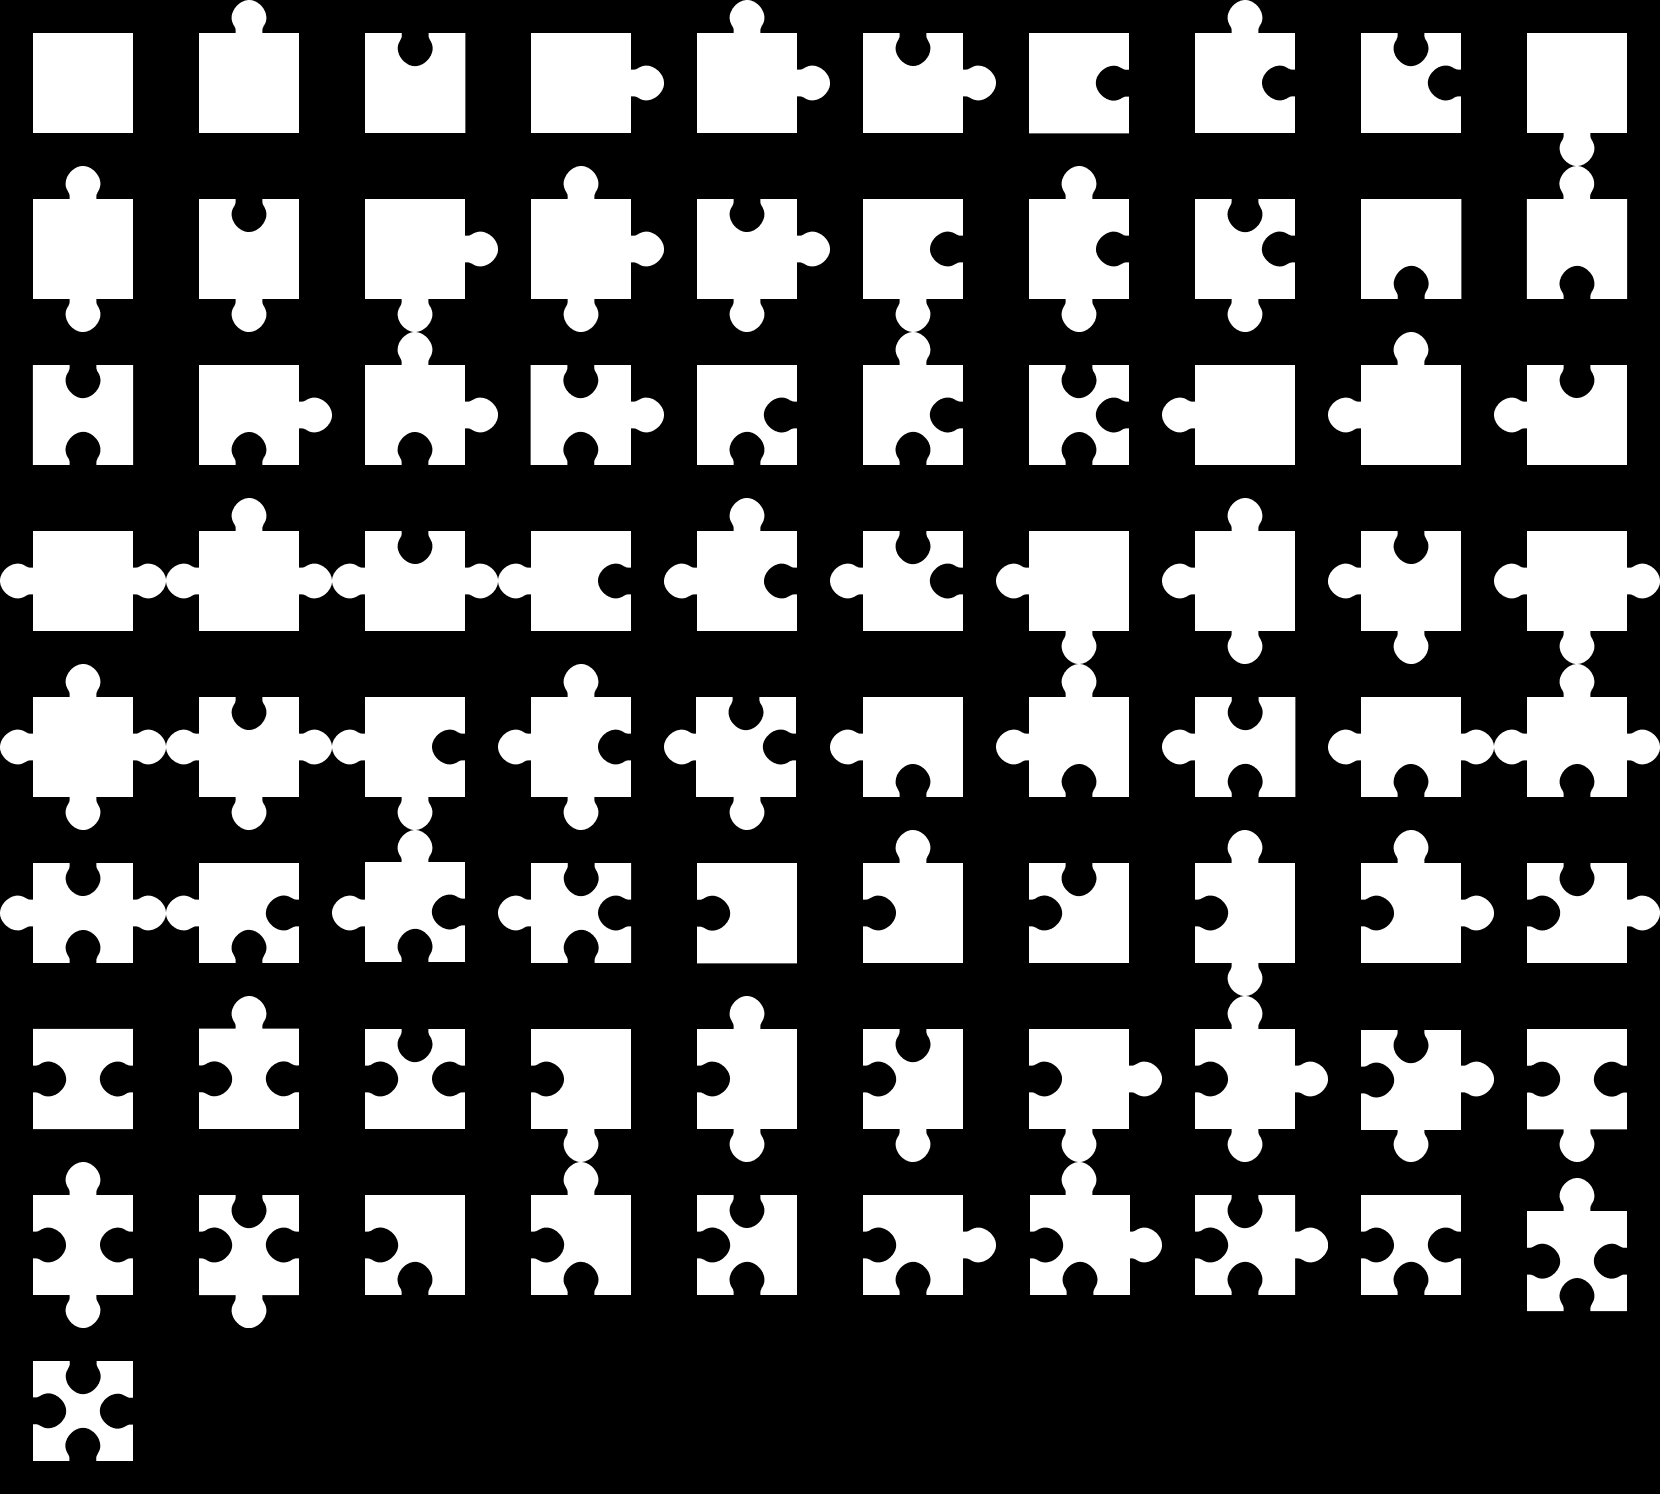
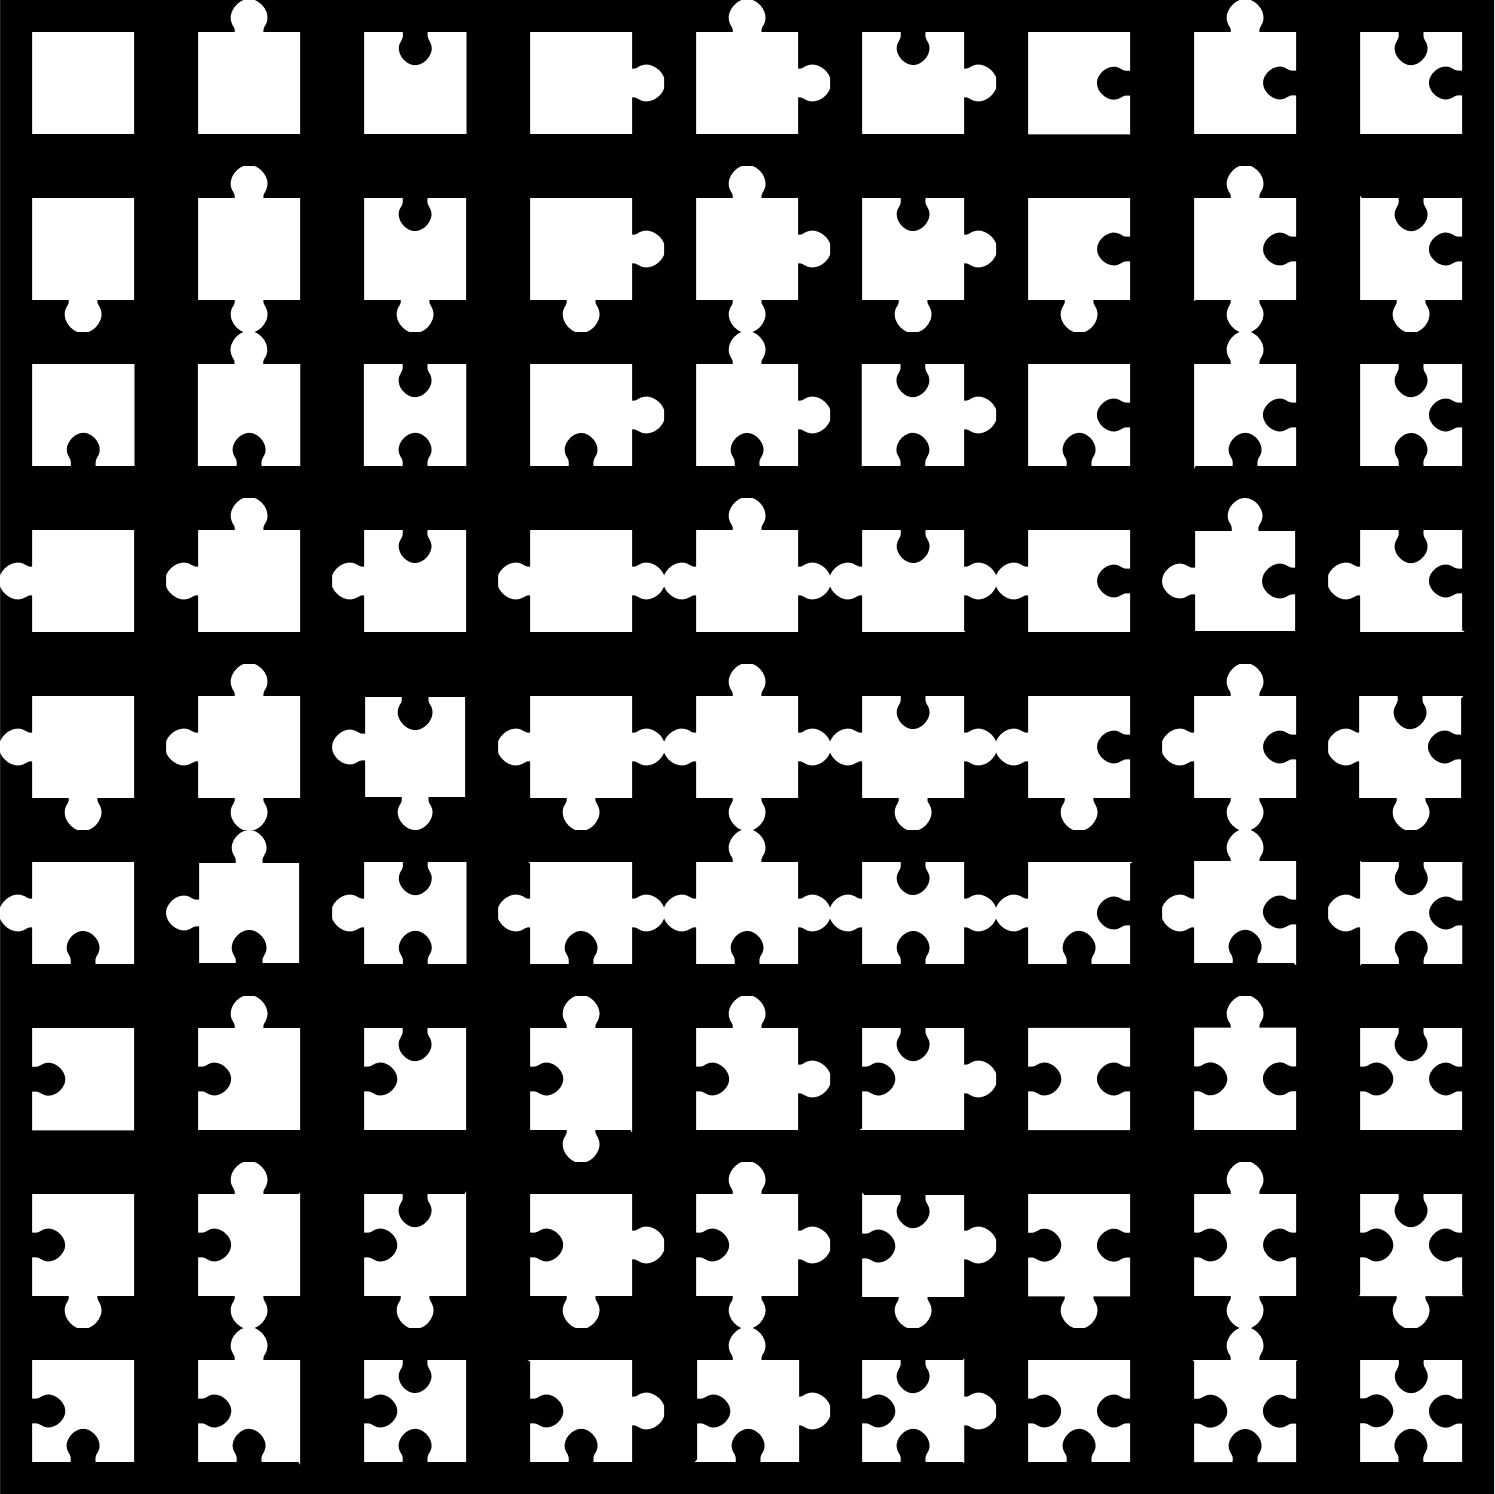
Refactor and temporarily disable masking due to performance issues

diff --git a/src/components/Piece/index.tsx b/src/components/Piece/index.tsx
@@ -9,17 +9,20 @@ type PieceProps = {
   piece: Y.Map<number>;
 };
 
-function edgeToUrl(edges: number[]): string {
+function edge2tern(edges: number[]): string {
+  // e.g.: [-1, 0, 1, 1] -> "1102"
   const edgeMap = { "-1": 2, "0": 0, "1": 1 } as { [edge: string]: number };
-  const encoded: string = edges
+  const ternary: string = edges
     .map((edge) => edgeMap[String(edge)])
     .reverse()
     .join("");
-  return encoded;
+  return ternary;
 }
 
 const Piece = ({ piece }: PieceProps) => {
-  const { baseTexture } = useJigsaw();
+  const {
+    baseTextures: { jigsaw: jigsawBaseTexture, mask: maskBaseTexture },
+  } = useJigsaw();
   const [
     {
       pos: [x, y],
@@ -32,6 +35,9 @@ const Piece = ({ piece }: PieceProps) => {
   const draggedRef = useRef<boolean>(false);
   const deltaRef = useRef<any>(null);
   const [texture, setTexture] = useState(PIXI.Texture.WHITE);
+  const [spriteMaskTexture, setSpriteMaskTexture] = useState(
+    PIXI.Texture.WHITE
+  );
   const [mask, setMask] = useState<any>(null);
 
   const handlePointerDown = useCallback(
@@ -63,23 +69,37 @@ const Piece = ({ piece }: PieceProps) => {
     [updatePos]
   );
 
+  // const knobSize = size * 0.34;
+  const knobSize = 0;
+
   useEffect(() => {
-    if (!baseTexture) return;
-    const margin = size / 3; // rough
+    if (!jigsawBaseTexture) return;
     const cropRectangle = new PIXI.Rectangle(
-      j * size - margin,
-      i * size - margin,
-      size + margin * 2,
-      size + margin * 2
+      j * size - knobSize,
+      i * size - knobSize,
+      size + knobSize * 2,
+      size + knobSize * 2
     );
-    setTexture(new PIXI.Texture(baseTexture, cropRectangle));
-  }, [baseTexture, i, j, size]);
+    setTexture(new PIXI.Texture(jigsawBaseTexture, cropRectangle));
+  }, [jigsawBaseTexture, i, j, size]);
 
-  if (!baseTexture) return null;
+  useEffect(() => {
+    if (!maskBaseTexture) return;
+    const encoded = parseInt(edge2tern(edges), 3);
+    const I = encoded % 9;
+    const J = Math.floor(encoded / 9);
+    const tileSize = 166;
+    const cropRectangle = new PIXI.Rectangle(
+      I * tileSize,
+      J * tileSize,
+      tileSize,
+      tileSize
+    );
+    setSpriteMaskTexture(new PIXI.Texture(maskBaseTexture, cropRectangle));
+  }, [maskBaseTexture, edges]);
 
-  const maskTexture = PIXI.Texture.from(
-    `/src/assets/masks/${edgeToUrl(edges)}.png`
-  );
+  if (!jigsawBaseTexture) return null;
+  const sizeWithKnobs = size + 2 * knobSize;
 
   return (
     <Container
@@ -88,15 +108,22 @@ const Piece = ({ piece }: PieceProps) => {
       interactive
       pointerdown={handlePointerDown}
       pointerup={handlePointerUp}
+      pointerupoutside={handlePointerUp}
       pointermove={handlePointerMove}
     >
-      <Sprite texture={texture} width={size} height={size} mask={mask} />
-      <Sprite // Mask
-        ref={(ref) => setMask(ref)}
-        texture={maskTexture}
-        width={size}
-        height={size}
+      <Sprite
+        texture={texture}
+        width={sizeWithKnobs}
+        height={sizeWithKnobs}
+        mask={mask}
       />
+
+      {/* <Sprite // Mask */}
+      {/*   ref={(ref) => setMask(ref)} */}
+      {/*   texture={spriteMaskTexture} */}
+      {/*   width={sizeWithKnobs} */}
+      {/*   height={sizeWithKnobs} */}
+      {/* /> */}
     </Container>
   );
 };

diff --git a/src/contexts/jigsaw.tsx b/src/contexts/jigsaw.tsx
@@ -1,29 +1,43 @@
 import { useState, useEffect, useContext, createContext } from "react";
 import * as PIXI from "pixi.js";
 import imagePath from "../assets/greatWave.png";
+// import maskPath from "../assets/masksheet_tiny.png";
+// import maskPath from "../assets/masksheet_small.png";
+// import maskPath from "../assets/masksheet.png";
+import maskPath from "../assets/masksheet_nostroke.png";
 import { useApp as usePixi } from "@inlet/react-pixi";
 
 const JigsawContext = createContext<any>(null);
 
 const useJigsaw = () => useContext(JigsawContext);
 
+type BaseTextures = {
+  [textureName: string]: any;
+};
+
 export const JigsawProvider = ({ children }: { children: React.ReactNode }) => {
   const pixi = usePixi();
-  const [baseTexture, setBaseTexture] = useState<any>(null);
+  const [baseTextures, setBaseTextures] = useState<BaseTextures>({});
 
   useEffect(() => {
-    const handleNewResource = () => {
-      const resource = pixi.loader.resources["jigsaw"];
-      setBaseTexture(PIXI.BaseTexture.from(resource.url));
-    };
-
-    delete pixi.loader.resources["jigsaw"];
+    pixi.loader.reset();
+    // delete pixi.loader.resources["jigsaw"];
+    // delete pixi.loader.resources["mask"];
     pixi.loader.add("jigsaw", imagePath);
-    pixi.loader.load(handleNewResource);
+    pixi.loader.add("mask", maskPath);
+
+    pixi.loader.load(() => {
+      const newBaseTextures: BaseTextures = {};
+      ["jigsaw", "mask"].forEach((textureName) => {
+        const resource = pixi.loader.resources[textureName];
+        newBaseTextures[textureName] = PIXI.BaseTexture.from(resource.url);
+      });
+      setBaseTextures(newBaseTextures);
+    });
   }, [imagePath]);
 
   return (
-    <JigsawContext.Provider value={{ baseTexture }}>
+    <JigsawContext.Provider value={{ baseTextures }}>
       {children}
     </JigsawContext.Provider>
   );

diff --git a/src/hooks/usePieces.tsx b/src/hooks/usePieces.tsx
@@ -2,7 +2,7 @@ import { useState, useEffect } from "react";
 import { doc, provider } from "../Y";
 
 const usePieces = () => {
-  const [pieces, setPieces] = useState<any[] | null>(null);
+  const [pieces, setPieces] = useState<any[]>([]);
 
   useEffect(() => {
     const yPieces = doc.getArray("pieces");
